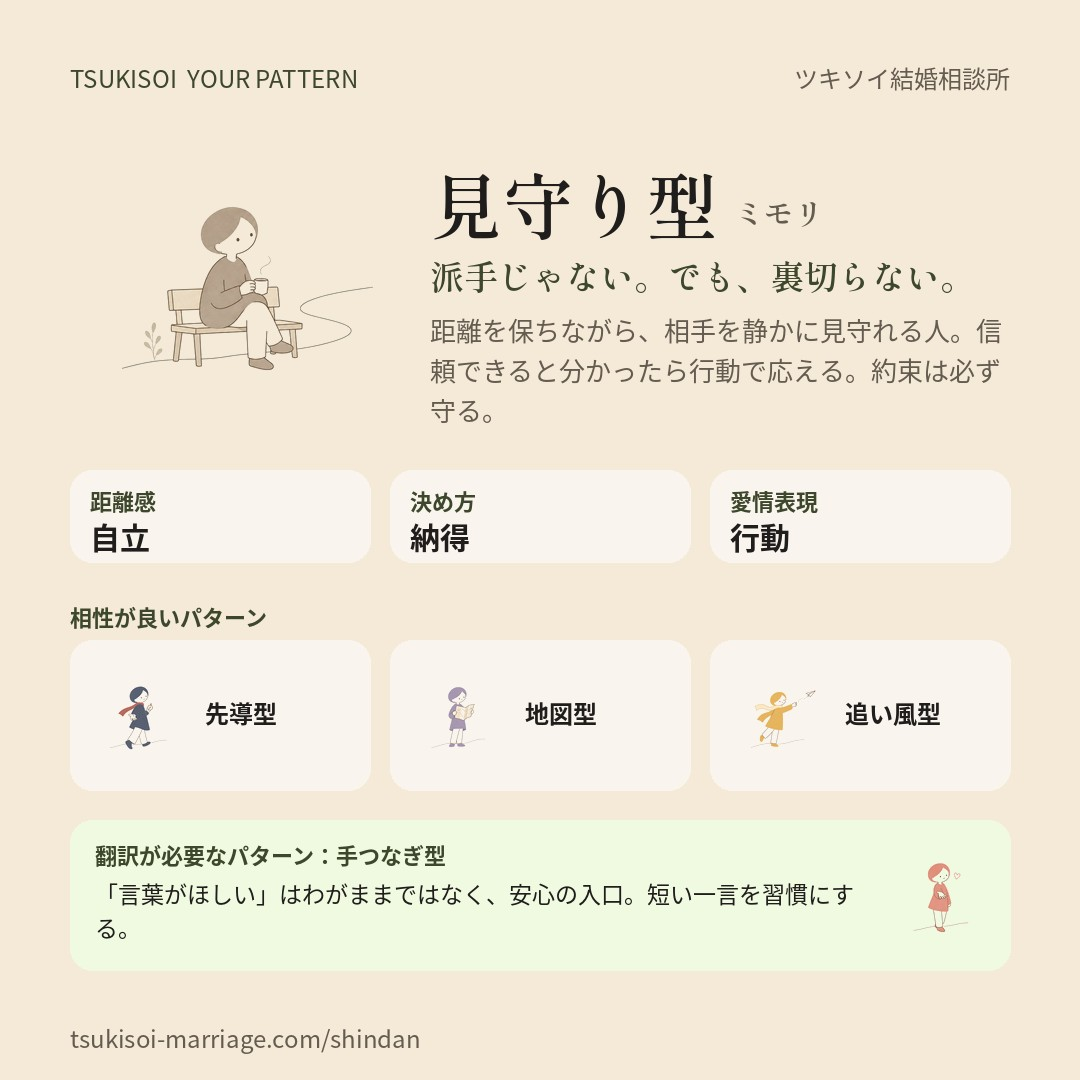
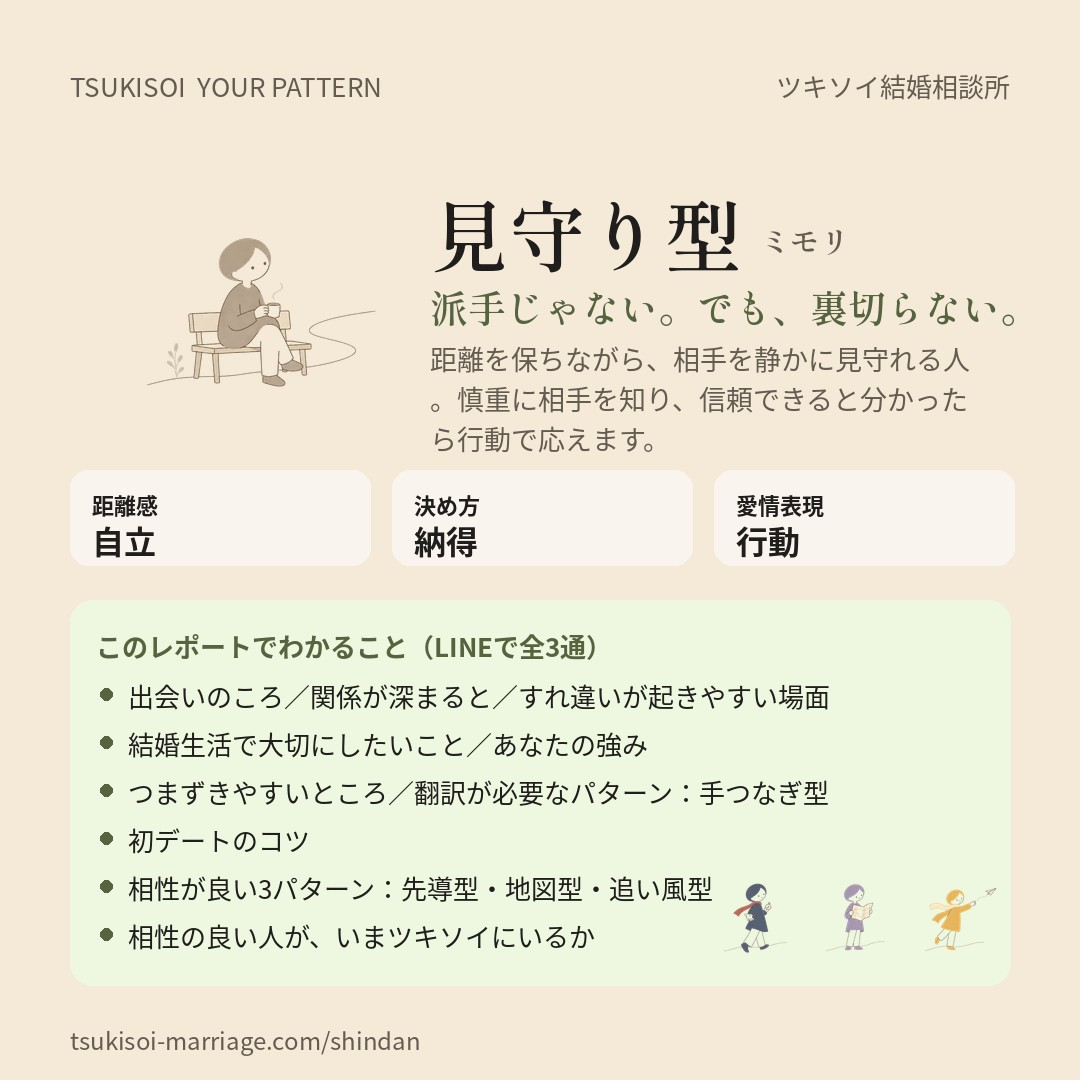
Add files via upload

diff --git a/shindan/index.html b/shindan/index.html
@@ -198,6 +198,11 @@ details p{margin:10px 0 0;font-size:13.5px;line-height:1.9;color:var(--color-neu
 .tz p{margin:2px 0 0;font-size:13.5px;line-height:1.8;color:var(--color-neutral-800)}
 .mz{filter:blur(4.5px);user-select:none;-webkit-user-select:none;pointer-events:none;opacity:.8}
 .tease:after{content:'';position:absolute;left:0;right:0;bottom:0;height:120px;background:linear-gradient(rgba(249,244,237,0),var(--color-neutral-100) 55%)}
+.tease.big{max-height:700px}
+.tease.big .deep h4:first-child{margin-top:12px}
+.tease.big:after{height:180px}
+.tease .mates img{filter:blur(3px)}
+.memo{margin:8px 0 6px;padding:12px 14px;background:var(--color-neutral-100);border:1px solid var(--color-neutral-300);border-radius:12px;font-family:var(--sans);font-size:12.5px;line-height:1.75;white-space:pre-wrap;color:var(--color-neutral-800)}
 .tzlock{position:absolute;left:16px;right:16px;bottom:14px;z-index:2;display:flex;align-items:center;justify-content:center;gap:8px;background:var(--color-accent-2-700);color:#fff;border-radius:999px;padding:11px 14px;font-size:13px;font-weight:700;text-decoration:none}
 .tzlock svg{width:14px;height:14px;flex:none}
 footer{padding:36px 22px 44px;background:var(--color-accent-2-900);color:var(--color-accent-2-200)}
@@ -515,6 +520,9 @@ function compute(){
   tsEvent('diag_complete',{pattern:S.result,type16:S.type16,distance:d==='A'?'yorisoi':'jiritsu',decide:c==='A'?'chokkan':'nattoku',express:e==='A'?'kotoba':'kodo',life:l==='A'?'keikaku':'junan',must_count:S.must.length});
 }
 function tz(title,text,n){var s=String(text||'');var i=s.slice(0,n+6).search(/[。、]/);var cut=i>=Math.min(4,n-2)&&i<n+6?i+1:n;return '<div class="tz"><b>'+esc(title)+'</b><p><span class="cl">'+esc(s.slice(0,cut))+'</span><span class="mz" aria-hidden="true">'+esc(s.slice(cut))+'</span></p></div>'}
+function tzh(title,text,n){var s=String(text||'');var cut=n>0?Math.min(n,s.length):0;return '<h4>'+esc(title)+'</h4><p>'+(cut?'<span class="cl">'+esc(s.slice(0,cut))+'</span>':'')+'<span class="mz" aria-hidden="true">'+esc(s.slice(cut))+'</span></p>'}
+function memo(k){var p=P[k],a=S.axes||{},d=new Date(),ds=d.getFullYear()+'/'+(d.getMonth()+1)+'/'+d.getDate();var ax=['d','c','e','l'].map(function(x){return AXNAME[x]+'：'+AXTXT[x][a[x]][0]+' '+axCount(x,a[x])+'/'+axTotal(x)}).join('\n');return '【ツキソイ相性診断メモ】'+ds+'\nパターン：'+p.name+'（'+p.kana+'）\n16タイプ：'+(S.type16||'未選択')+(Object.keys(S.guess||{}).length===4?'（目安判定）':'')+'\n'+ax+'\n譲れないこと：'+(S.must.length?S.must.join('、'):'なし')+'\n※このまま送信してください。相談のときに使います。'}
+function oaUrl(text){return 'https://line.me/R/oaMessage/@853mdrmu/?'+encodeURIComponent(text)}
 function renderResult(b){
   var k=S.result,p=P[k],l=S.axes.l;
   var t=S.type16||'';var tips=[T16[t[0]],T16[t[1]],T16[t[2]],T16[t[3]]].filter(Boolean);
@@ -522,23 +530,23 @@ function renderResult(b){
    '<p class="rdesc">'+esc(p.desc)+'</p>'+
    '<div class="rrow"><div class="card"><b>距離感</b><span>'+p.axis[0]+'</span></div><div class="card"><b>決め方</b><span>'+p.axis[1]+'</span></div><div class="card"><b>愛情表現</b><span>'+p.axis[2]+'</span></div><div class="card"><b>歩幅</b><span>'+(l==='A'?'計画':'柔軟')+'</span></div></div>'+
    '<div class="eyebrow" style="margin:26px 0 4px">診断の根拠</div><p class="note" style="margin:0 0 6px">12問の回答を、4つの軸ごとに集計しています。</p><div class="basis">'+['d','c','e','l'].map(function(ax){var v=S.axes[ax];var n=axCount(ax,v);var tot=axTotal(ax);return '<div class="brow"><div class="bl">'+AXNAME[ax]+'</div><div><div class="bv">'+AXTXT[ax][v][0]+'<small>'+n+' / '+tot+'問</small></div><div class="bar"><i style="width:'+Math.round(n/tot*100)+'%"></i></div><p>'+esc(AXTXT[ax][v][1])+'</p></div></div>'}).join('')+'</div>'+
+   (S.must.length?'<div class="eyebrow" style="margin:26px 0 8px">あなたが譲れないこと</div><div class="chips">'+S.must.map(function(m){return '<button type="button" class="sel" disabled>'+esc(m)+'</button>'}).join('')+'</div>':'')+
    '<div class="eyebrow" style="margin:26px 0 4px">'+esc(p.name)+'の恋愛の傾向</div><div class="deep">'+
-   '<h4>出会いのころ</h4><p>'+esc(DEEP[k].first)+'</p>'+
-   '<h4>関係が深まると</h4><p>'+esc(DEEP[k].grow)+'</p>'+
-   '<h4>すれ違いが起きやすい場面</h4><p>'+esc(DEEP[k].gap)+'</p>'+
-   '<h4>結婚生活では</h4><p>'+esc(DEEP[k].marry)+' '+esc(LIFE[l])+'</p>'+
-   '<h4>あなたの強み</h4><p>'+esc(p.strength)+'</p></div>'+
-   '<div class="eyebrow" style="margin:26px 0 8px">相性が良いパターン</div><div class="mates">'+p.good.map(function(g){return '<figure><img src="'+imgOf(g[0])+'" alt=""><figcaption>'+esc(P[g[0]].name)+'<small>'+esc(g[1])+'</small></figcaption></figure>'}).join('')+'</div>'+
-   (tips.length?'<div class="eyebrow" style="margin:26px 0 8px">16タイプ（'+esc(t)+'）からの補足</div><ul style="margin:0;padding-left:18px;font-size:13.5px;line-height:1.9;color:var(--color-neutral-800)">'+tips.map(function(x){return '<li>'+esc(x)+'</li>'}).join('')+'</ul>':'')+
-   (S.must.length?'<div class="eyebrow" style="margin:22px 0 8px">あなたが譲れないこと</div><div class="chips">'+S.must.map(function(m){return '<button type="button" class="sel" disabled>'+esc(m)+'</button>'}).join('')+'</div>':'')+
-   '<div class="tease"><div class="th"><b>'+esc(p.name)+'の詳しいレポート</b><small>LINE友だち限定</small></div>'+
-   tz('つまずきやすいところ',p.trip,10)+
-   tz('翻訳が必要なパターン：'+P[p.translate[0]].name,p.translate[1],8)+
-   tz('初デートのコツ',p.date,8)+
-   (function(){var s='相性の良い3パターン（'+p.good.map(function(g){return P[g[0]].name}).join('・')+'）の会員が、いま何名いるか。年代と活動エリアの内訳と合わせてお伝えします。';return tz('相性の良い人が、いまツキソイにいるか',s,s.indexOf('いま')+2)})()+
-   '<a class="tzlock" href="'+LINE_URL+'" target="_blank" rel="noopener" id="lineBtnTease"><svg viewBox="0 0 24 24" fill="none" stroke="currentColor" stroke-width="2.2" stroke-linecap="round" stroke-linejoin="round"><rect x="4" y="10" width="16" height="11" rx="2.5"/><path d="M8 10V7a4 4 0 0 1 8 0v3"/></svg>LINE友だち追加で、続きを読む（無料）</a></div>'+
-   '<div class="pass"><b>合言葉</b><div class="word">'+esc(p.kana)+'</div><p>友だち追加のあと、この合言葉をトークに送ると、詳しいレポートが届きます。</p></div>'+
-   '<div style="margin-top:14px;display:flex;flex-direction:column;gap:10px"><a class="btn btn-line" href="'+LINE_URL+'" target="_blank" rel="noopener" id="lineBtn">LINEで詳しいレポートを受け取る</a><button class="btn btn-secondary" id="copyBtn">合言葉「'+esc(p.kana)+'」をコピー</button><a class="btn btn-secondary" href="'+CONSULT_URL+'" id="consultBtn">結果を持って、無料相談する</a><button class="btn btn-secondary" id="shareBtn" style="border-color:var(--color-neutral-400);color:var(--color-neutral-800)">結果をシェアする</button></div>'+
+   '<h4>出会いのころ</h4><p>'+esc(DEEP[k].first)+'</p></div>'+
+   '<div class="tease big"><div class="th"><b>'+esc(p.name)+'の詳しいレポート</b><small>LINE友だち限定</small></div><div class="deep">'+
+   tzh('関係が深まると',DEEP[k].grow,22)+
+   tzh('すれ違いが起きやすい場面',DEEP[k].gap,0)+
+   tzh('結婚生活では',DEEP[k].marry+' '+LIFE[l],0)+
+   tzh('あなたの強み',p.strength,0)+
+   tzh('つまずきやすいところ',p.trip,0)+
+   tzh('翻訳が必要なパターン：'+P[p.translate[0]].name,p.translate[1],0)+
+   tzh('初デートのコツ',p.date,0)+
+   '</div><div class="eyebrow mz" style="margin:22px 0 8px">相性が良いパターン</div><div class="mates mz">'+p.good.map(function(g){return '<figure><img src="'+imgOf(g[0])+'" alt=""><figcaption>'+esc(P[g[0]].name)+'<small>'+esc(g[1])+'</small></figcaption></figure>'}).join('')+'</div>'+
+   (tips.length?'<div class="eyebrow mz" style="margin:22px 0 8px">16タイプ（'+esc(t)+'）からの補足</div><ul class="mz" style="margin:0;padding-left:18px;font-size:13.5px;line-height:1.9;color:var(--color-neutral-800)">'+tips.map(function(x){return '<li>'+esc(x)+'</li>'}).join('')+'</ul>':'')+
+   '<div class="deep">'+tzh('相性の良い人が、いまツキソイにいるか','相性の良い3パターンの会員がいま何名いるか、年代と活動エリアの内訳と合わせてお伝えします。',0)+'</div>'+
+   '<a class="tzlock" href="'+oaUrl(p.kana)+'" target="_blank" rel="noopener" id="lineBtnTease"><svg viewBox="0 0 24 24" fill="none" stroke="currentColor" stroke-width="2.2" stroke-linecap="round" stroke-linejoin="round"><rect x="4" y="10" width="16" height="11" rx="2.5"/><path d="M8 10V7a4 4 0 0 1 8 0v3"/></svg>LINE友だち追加で、続きを読む（無料）</a></div>'+
+   '<div class="pass"><b>合言葉</b><div class="word">'+esc(p.kana)+'</div><p>下のボタンを押すとLINEが開き、合言葉が入力された状態になります。そのまま送信すると、詳しいレポート（全3通）が届きます。</p></div>'+
+   '<div style="margin-top:14px;display:flex;flex-direction:column;gap:10px"><a class="btn btn-line" href="'+oaUrl(p.kana)+'" target="_blank" rel="noopener" id="lineBtn">LINEで詳しいレポートを受け取る</a><button class="btn btn-secondary" id="copyBtn">合言葉「'+esc(p.kana)+'」をコピー</button><a class="btn btn-secondary" href="'+CONSULT_URL+'" id="consultBtn">結果を持って、無料相談する</a><button class="btn btn-secondary" id="shareBtn" style="border-color:var(--color-neutral-400);color:var(--color-neutral-800)">結果をシェアする</button></div>'+
    '<p class="note" style="margin:18px 0 0;text-align:center"><a href="#" id="retry" style="color:var(--color-neutral-700)">もう一度診断する</a>　·　<a href="#" data-quit style="color:var(--color-neutral-700)">ページに戻る</a></p>';
   $('#lineBtn').addEventListener('click',function(){tsEvent('line_cta_click',{pattern:k,placement:'result'});try{navigator.clipboard&&navigator.clipboard.writeText(p.kana)}catch(x){}});
   $('#lineBtnTease').addEventListener('click',function(){tsEvent('line_cta_click',{pattern:k,placement:'tease'});try{navigator.clipboard&&navigator.clipboard.writeText(p.kana)}catch(x){}});
